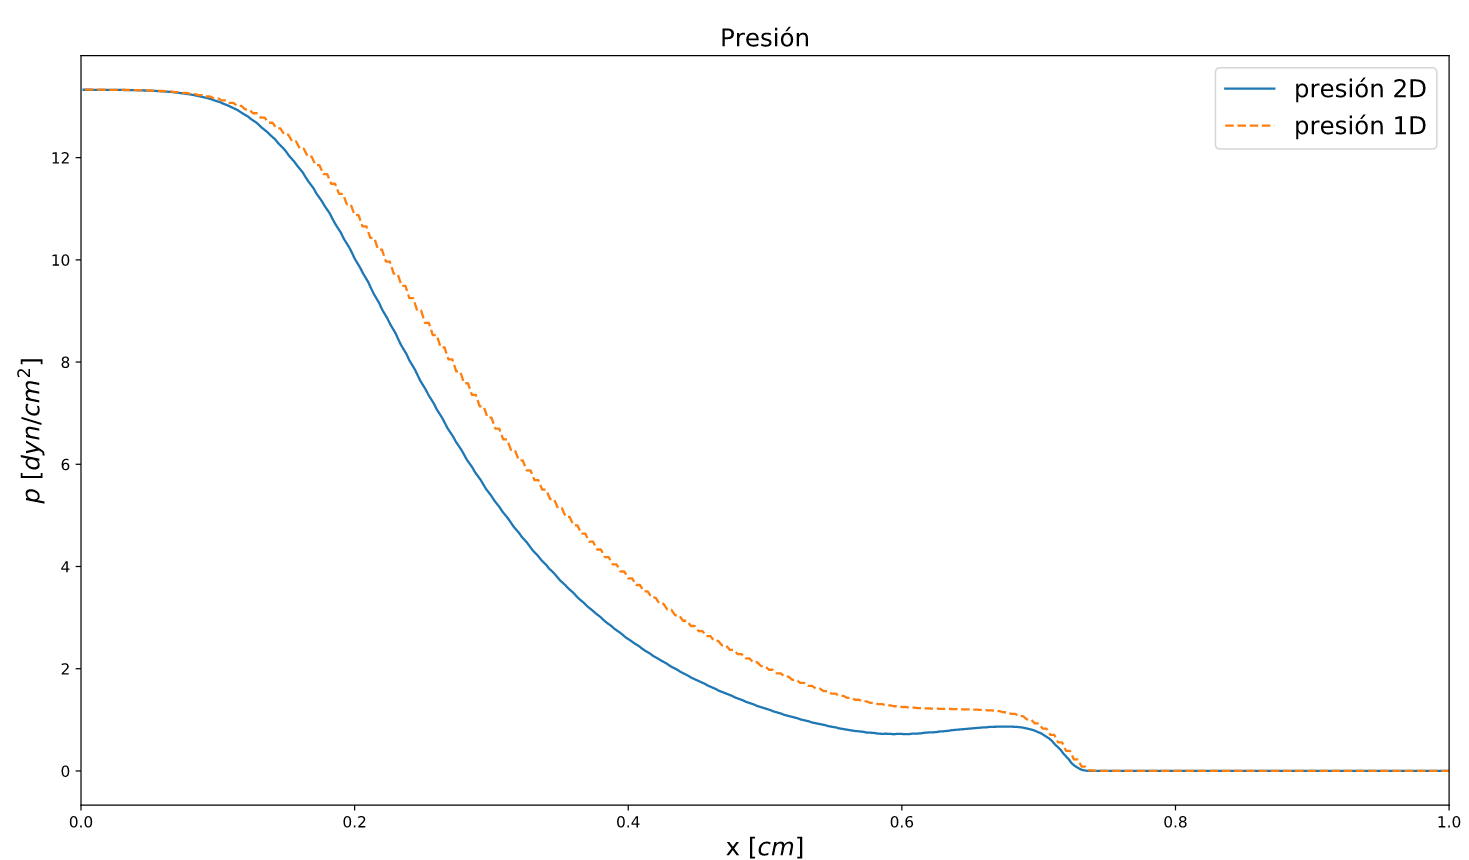
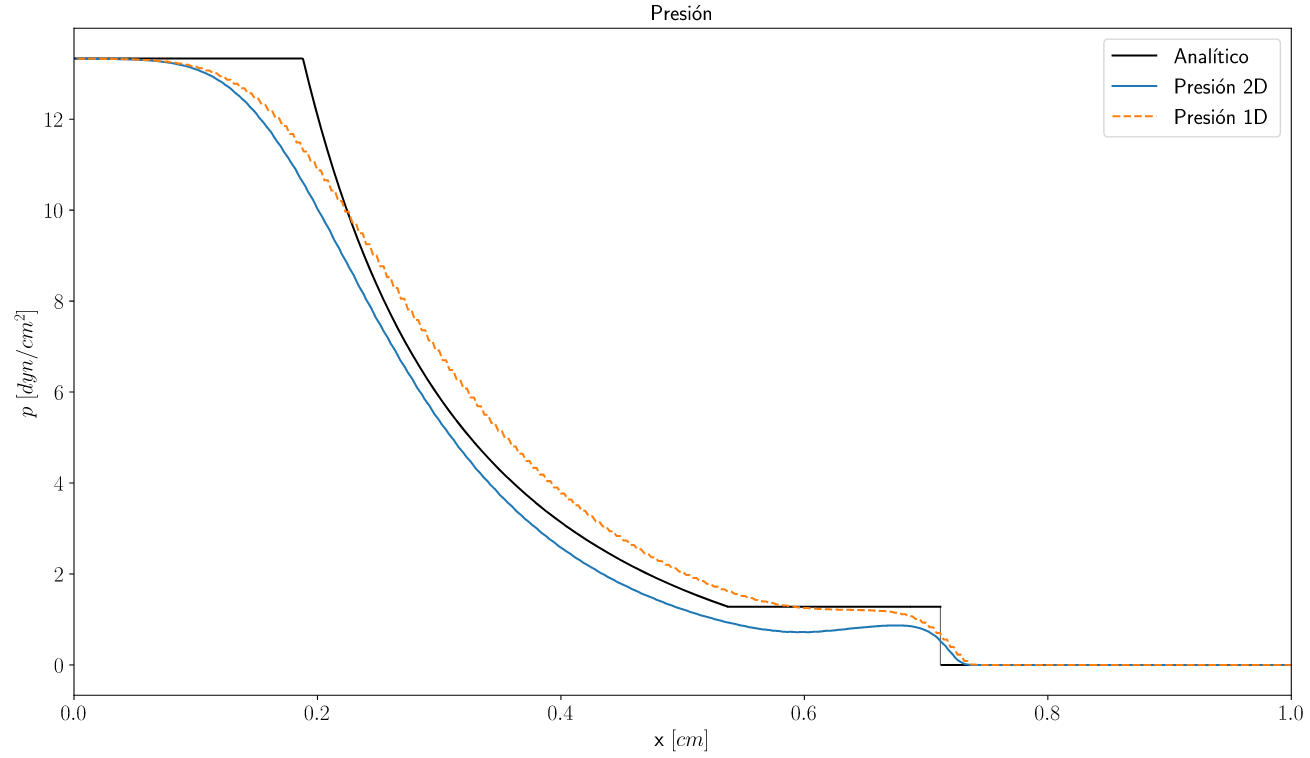
Discusion bidimensional

diff --git a/main.tex b/main.tex
@@ -2159,7 +2159,8 @@ Riemann relativista con resoluciones $\geq 500$ píxeles.
 
 \section{Pruebas bidimensionales}
 Ya que hemos visto el código funcionar correctamente para pruebas en una dimensión ahora nos toca ver
-como funciona en 2 dimensiones. Se hará una prueba de una onda de choque en 2 dimensiones, los valores
+como funciona en 2 dimensiones. Se hará una prueba de una onda de choque relativista
+en 2 dimensiones, los valores
 que tendrá están en el cuadro \ref{Cuadro_parametros_choque_2D}.
 
 \begin{table}[htbp]
@@ -2168,7 +2169,7 @@ que tendrá están en el cuadro \ref{Cuadro_parametros_choque_2D}.
   \hline 
   \textbf{Caso} & \textbf{$p_i$} [$\text{dyn}/\text{cm}^2$] & 
   \textbf{$p_o$} [$\text{dyn}/\text{cm}^2$] & 
-  \textbf{$v_{xi}$}/c & \textbf{$v_{xo}$}/c  & \textbf{$vy_i$}/c & \textbf{$vy_o$}/c  & 
+  \textbf{$v_{xi}$}/c & \textbf{$v_{xo}$}/c  & \textbf{$v_{yi}$}/c & \textbf{$v_{yo}$}/c  & 
   \textbf{$\rho_i$} [$\text{g}/\text{cm}^3$]& 
   \textbf{$\rho_o$} [$\text{g}/\text{cm}^3$]\\ 
   \hline 
@@ -2193,7 +2194,7 @@ perfiles de la onda.
 
 \begin{figure}
   \centering
-    \includegraphics[width=0.8\textwidth]{./Figuras/verificacion_del_codigo/pruebas_2D/Example}
+    \includegraphics[width=0.4\textwidth]{./Figuras/verificacion_del_codigo/pruebas_2D/Example}
   \caption{Las lineas indican los perfiles de densidad, velocidad y presión que se 
   tomaran de los radios que son 
   paralelos al eje x (0°), perpendiculares (90°) y a 45° y se compararán con las pruebas en 
@@ -2217,66 +2218,54 @@ el tiempo $t = 0.4$ s.
 \end{figure}
 
 Antes de compararlo con el perfil unidimensional, primero se comparará entre si mísmo. Es decir, se
-compararán los perfiles radiales tomados a 0°, 45°, 90°. En la Figura \ref{fig:comparacion_perfil_velocidad}
-el perfil de la densidad. Elpanel de arriba a la izquierda muestra a 0°, el de arriba a la derecha
-a 90° y el de abajo muestra a 45°.
+compararán los perfiles radiales tomados a 0°, 45°, 90°. 
+En la Figura \ref{fig:comparacion_perfil_radial}, el panel de arriba a la izquierda muestra la densidad, 
+el de arriba a la derecha la velocidad y el de abajo muestra la presión.
 
-En la Figura, para los 3 perfiles radiales, muestran una densidad $\rho \approx 10$ en $x \approx 0.2$
+En el panel de arriba a la derecha se muestra una densidad $\rho \approx 10$ en $x \approx 0.2$
 donde comienza a disminuir hasta $\rho \approx 1.5$ en $x \approx 0.6$. Después comienza a subir hasta 
 $\rho \approx 5$ para los perfiles de 90 y 0, mientras que para el de 45 sube hasta 5.5 en el punto
 $x \approx 0.7$. Después vuelve a disminuir a $\rho \approx 0$ en el punto $x \approx 0.8$ para los 
 3 perfiles radiales
 
 
-\begin{figure}
-  \centering
-      \subfigure{\includegraphics[scale = 0.16]{./Figuras/verificacion_del_codigo/pruebas_2D/0/densidad.png}}
-      \subfigure{\includegraphics[scale = 0.16]{./Figuras/verificacion_del_codigo/pruebas_2D/90/densidad.png}}
-      \subfigure{\includegraphics[scale = 0.16]{./Figuras/verificacion_del_codigo/pruebas_2D/45/densidad.png}}
-    \caption{La figura muestra la comparación que hay entre los distintos perfiles de
-    densidad al tiempo $t = 0.4$ s. El panel de arriba a la izquierda muestra el perfil a 0°, el de
-    arriba a la derecha muestra a 90° y el panel de abajo muestra a 45°}
-    \label{fig:comparacion_perfil_densidad}
-\end{figure}
 
-Para el perfil de la velocidad (ver Figura \ref{fig:comparacion_perfil_velocidad}), 
+Para el perfil de la velocidad (panel arriba a la derecha), 
 en $x \approx 0.2$ la velocidad empieza a incrementar desde el reposo
 $v = 0$ hasta $v \approx 0.7$ en $x \approx 0.6$, esto aplica para los 3 perfiles de velocidad. Después
 va decreciendo hasta $v \approx 0.62$ en $x \approx 0.75$ para los perfiles de 0 y 90, mientras que para 
 el perfil de 45 lo hace en $x \approx 0.73$. A partir de este punto la velocidad vuelve a cero.
 
-\begin{figure}
-  \centering
-      \subfigure{\includegraphics[scale = 0.16]{./Figuras/verificacion_del_codigo/pruebas_2D/0/velocidad.png}}
-      \subfigure{\includegraphics[scale = 0.16]{./Figuras/verificacion_del_codigo/pruebas_2D/90/velocidad.png}}
-      \subfigure{\includegraphics[scale = 0.16]{./Figuras/verificacion_del_codigo/pruebas_2D/45/velocidad.png}}
-    \caption{Igual que la Figura \ref{fig:comparacion_perfil_densidad}, solo que se tomó el perfil de
-    la velocidad.}\label{fig:comparacion_perfil_velocidad}
-\end{figure}
 
 
-El la figura \ref{fig:comparacion_perfil_presion} muestra el perfil de la presión, donde los paneles 
-vienen ordenados de igual manera que el perfil de densidad y velocidad. Para el punto $x \approx 0.18$
+
+El el panel de abajo muestra el perfil de la presión. Para el punto $x \approx 0.18$
 la presión comienza a disminuir de $p = 13.33$ hasta $p \approx 1 $ en $x \approx 0.7$ para los 
 3 perfiles. En $x \approx 0.71 $ vuelve a disminuir a $p = 0$ en $x \approx 0.74 $ para los perfiles de 
 0 y 90, mientras que para el perfil de 45 lo hace en $x \approx 0.73 $.
 
+Al comparar las gráficas, se puede ver que los perfiles de 0 y 90, tiene un error del 0 \% mientras que
+al compararse con el de 45 vemos que ... (verificar resultados).
+
+Por lo tanto al no haber una discrepencia grande en los valores de los 3 perfiles radiales podemos ver
+que nuestro codigo relativista no cambia a pesar de la dirección que tengan los perfiles radiales de 
+densidad, velocidad y presión. Siempre se tiene el mismo perfil en función del radio.
 
 \begin{figure}
   \centering
-      \subfigure{\includegraphics[scale = 0.16]{./Figuras/verificacion_del_codigo/pruebas_2D/0/presion.png}}
-      \subfigure{\includegraphics[scale = 0.16]{./Figuras/verificacion_del_codigo/pruebas_2D/90/presion.png}}
-      \subfigure{\includegraphics[scale = 0.16]{./Figuras/verificacion_del_codigo/pruebas_2D/45/presion.png}}
-    \caption{Igual que la Figura \ref{fig:comparacion_perfil_densidad}, solo que se tomó el perfil de
-    la presión.}\label{fig:comparacion_perfil_presion}
+      \subfigure{\includegraphics[scale = 0.16]{./Figuras/verificacion_del_codigo/pruebas_2D/combinacion/densidad.png}}
+      \subfigure{\includegraphics[scale = 0.16]{./Figuras/verificacion_del_codigo/pruebas_2D/combinacion/velocidad.png}}
+      \subfigure{\includegraphics[scale = 0.16]{./Figuras/verificacion_del_codigo/pruebas_2D/combinacion/presion.png}}
+    \caption{La figura muestra la comparación que hay entre los distintos perfiles de
+    densidad al tiempo $t = 0.4$ s. El panel de arriba a la izquierda muestra el perfil a 0° (linea roja
+    sólida), el de arriba a la derecha muestra a 90° (linea verde punteada) y el panel de abajo 
+    (linea azul de raya y punto) muestra a 45°}
+    \label{fig:comparacion_perfil_radial}
 \end{figure}
 
 
-
-
-
 En la Figura \ref{fig:comparacion_perfil_mean} muestra la comparación entre la prueba unidimensional
-y la prueba bidimensional, que es la media de los 3 perfiles radiales que se tomarón.
+y la prueba bidimensional, que es la media de los 3 perfiles radiales que se tomaron.
 El panel de arriba a la izquierda muestra la densidad, el de arriba a la derecha, la velocidad y 
 el de abajo la presión.
 La densidad y presión, para ambas pruebas, mantienen sus valores de 
@@ -2296,8 +2285,9 @@ sube a $v \approx 0.8c$ y baja a $v \approx 0.7c$ en $x \approx 0.68$ cm
       \subfigure{\includegraphics[scale = 0.16]{./Figuras/verificacion_del_codigo/pruebas_2D/mean/densidad.png}}
       \subfigure{\includegraphics[scale = 0.16]{./Figuras/verificacion_del_codigo/pruebas_2D/mean/velocidad.png}}
       \subfigure{\includegraphics[scale = 0.16]{./Figuras/verificacion_del_codigo/pruebas_2D/mean/presion.png}}
-    \caption{Comparación entre la media de los 3 perfiles radiales (0, 90 y 45) y 
-    la prueba unidimensional.}\label{fig:comparacion_perfil_mean}
+    \caption{Comparación entre la media de los 3 perfiles radiales (linea sólida azul), la 
+    la prueba unidimensional (linea de puntos rojos) y la analítica (linea negra sólida)
+    .}\label{fig:comparacion_perfil_mean}
 \end{figure}
 
 
@@ -2309,181 +2299,14 @@ donde la densidad, así como la velocidad y presión descienden sus valores a nu
 La mayor diferencia que hay entre la 1D y 2D para la densidad es del 70 \%, mientras que para la 
 velocidad es del 238 \% y la de la presión es del 79 \%.
 
+Al comparar los perfiles bidimensionales con el analítico, para la densidad se tiene un error del
+13 \%, para la velocidad del 12 \% y para la presión del 16 \%. Luego al comparar el unidimensional
+con el analítico, la densidad es del 3 \%, la velocidad del 7\% y la presión del 4 \%.
 
+Al no haber tanta diferencia del resultado de la media de los perfiles radiales bidimensionales con 
+los perfiles unidimensionales y con el analítico puedo concluir que mi código relativista es válido
+para 2 dimensiones.
 
-
-
-
-% \begin{figure}
-%   \centering
-%   \subfigure[$t = 0 $ s]{\includegraphics[scale = 0.36]{./Figuras/verificacion/casos/caso_2/LAX_NR_screenshot_0}}
-%   \subfigure[$t = 1.89\,\times 10^{10}$ s]{\includegraphics[scale = 0.36]{./Figuras/verificacion/casos/caso_2/LAX_NR_screenshot_20}}
-%   \subfigure[$t = 3.784 \,\times 10^{10}$ s]{\includegraphics[scale = 0.36]{./Figuras/verificacion/casos/caso_2/LAX_NR_screenshot_40}}
-%   \caption{Evolución de la onda de choque de la Figura \ref{fig_velocidad_vs_radio_computacionalmente_lax_newtoniano_500}}
-% \end{figure} \label{fig_cmap_lax_newtoniano_500}
-%   % ========================================= Caso 2 ========================================================================
-
-
-
-%   % ========================================= caso_3 ========================================================================
-
-% \begin{figure}
-%   \centering
-%     \includegraphics[width=0.8\textwidth]{./Figuras/verificacion/casos/caso_3/Expansion}
-%   \caption{Velocidad del radio de expansión de una onda de choque conforme avanza el tiempo. El exponente con la que se expande la onda es 
-%   $ a = 0.419$ con un coeficiente de relación $R^2=0.992$. 
-%   El método que se usó fue Lax no relativista.} \label{fig_velocidad_vs_radio_computacionalmente_lax_newtoniano_1000}
-% \end{figure}
-
-
-
-% \begin{figure}
-%   \centering
-%   \subfigure[$t = 0 $ s]{\includegraphics[scale = 0.36]{./Figuras/verificacion/casos/caso_3/LAX_NR_screenshot_0}}
-%   \subfigure[$t = 1.89\,\times 10^{10}$ s]{\includegraphics[scale = 0.36]{./Figuras/verificacion/casos/caso_3/LAX_NR_screenshot_20}}
-%   \subfigure[$t = 3.784 \,\times 10^{10}$ s]{\includegraphics[scale = 0.36]{./Figuras/verificacion/casos/caso_3/LAX_NR_screenshot_40}}
-%   \caption{Evolución de la onda de choque de la Figura \ref{fig_velocidad_vs_radio_computacionalmente_lax_newtoniano_1000}}
-% \end{figure}
-%   % ========================================= caso_3 ========================================================================
-% Para el caso HLL newtoniano se tienen los mismos casos, pero HLL es sutílmente mejor al aproximarse al exponente , tanto para HLL con Lax en
-% el caso newtoniano el tiempo para para casos donde la resolución es de 250x250 el programa para al tiempo $t= 4.12 \times 10^{10}$, para 500x500 
-% $t= 8.13 \times 10^{10}$
-
-
-%   % ========================================= caso_4 ========================================================================
-
-%   \begin{figure}
-%     \centering
-%       \includegraphics[width=0.8\textwidth]{./Figuras/verificacion/casos/caso_4/Expansion}
-%     \caption{Velocidad del radio de expansión de una onda de choque conforme avanza el tiempo. El exponente con la que se expande la onda es 
-%     $ a = 0.474$ con un coeficiente de relación $R^2=0.988$. 
-%     El método que se usó fue HLL no relativista.} \label{fig_velocidad_vs_radio_computacionalmente_hll_newtoniano_250}
-%   \end{figure}
-  
-  
-  
-%   \begin{figure}
-%     \centering
-%     \subfigure[$t = 0 $ s]{\includegraphics[scale = 0.36]{./Figuras/verificacion/casos/caso_4/HLL_NR_screenshot_0}}
-%     \subfigure[$t = 1.89\,\times 10^{10}$ s]{\includegraphics[scale = 0.36]{./Figuras/verificacion/casos/caso_4/HLL_NR_screenshot_20}}
-%     \subfigure[$t = 3.784 \,\times 10^{10}$ s]{\includegraphics[scale = 0.36]{./Figuras/verificacion/casos/caso_4/HLL_NR_screenshot_40}}
-%     \caption{Evolución de la onda de choque de la Figura \ref{fig_velocidad_vs_radio_computacionalmente_hll_newtoniano_250}}
-%   \end{figure}
-%     % ========================================= caso_4 ========================================================================
-  
-  
-
-%  % ========================================= caso_5 ========================================================================
-
-%  \begin{figure}
-%   \centering
-%     \includegraphics[width=0.8\textwidth]{./Figuras/verificacion/casos/caso_5/Expansion}
-%   \caption{Velocidad del radio de expansión de una onda de choque conforme avanza el tiempo. El exponente con la que se expande la onda es 
-%   $ a = 0.427$ con un coeficiente de relación $R^2=0.982$. 
-%   El método que se usó fue HLL no relativista.} \label{fig_velocidad_vs_radio_computacionalmente_hll_newtoniano_500}
-% \end{figure}
-
-
-
-% \begin{figure}
-%   \centering
-%   \subfigure[$t = 0 $ s]{\includegraphics[scale = 0.36]{./Figuras/verificacion/casos/caso_5/HLL_NR_screenshot_0}}
-%   \subfigure[$t = 1.89\,\times 10^{10}$ s]{\includegraphics[scale = 0.36]{./Figuras/verificacion/casos/caso_5/HLL_NR_screenshot_20}}
-%   \subfigure[$t = 3.784 \,\times 10^{10}$ s]{\includegraphics[scale = 0.36]{./Figuras/verificacion/casos/caso_5/HLL_NR_screenshot_40}}
-%   \caption{Evolución de la onda de choque de la Figura \ref{fig_velocidad_vs_radio_computacionalmente_hll_newtoniano_500}}
-% \end{figure}
-%   % ========================================= caso_5 ========================================================================
-
-% % ========================================= caso_6 ========================================================================
-
-% \begin{figure}
-%   \centering
-%     \includegraphics[width=0.8\textwidth]{./Figuras/verificacion/casos/caso_6/Expansion}
-%   \caption{Velocidad del radio de expansión de una onda de choque conforme avanza el tiempo. El exponente con la que se expande la onda es 
-%   $ a = 0.418$ con un coeficiente de relación $R^2=0.987$. 
-%   El método que se usó fue HLL no relativista.} \label{fig_velocidad_vs_radio_computacionalmente_hll_newtoniano_1000}
-% \end{figure}
-
-
-% \begin{figure}
-%   \centering
-%   \subfigure[$t = 0 $ s]{\includegraphics[scale = 0.36]{./Figuras/verificacion/casos/caso_6/HLL_NR_screenshot_0}}
-%   \subfigure[$t = 1.89\,\times 10^{10}$ s]{\includegraphics[scale = 0.36]{./Figuras/verificacion/casos/caso_6/HLL_NR_screenshot_20}}
-%   \subfigure[$t = 3.784 \,\times 10^{10}$ s]{\includegraphics[scale = 0.36]{./Figuras/verificacion/casos/caso_6/HLL_NR_screenshot_40}}
-%   \caption{Evolución de la onda de choque de la Figura \ref{fig_velocidad_vs_radio_computacionalmente_hll_newtoniano_1000}}
-% \end{figure}
-%   % ========================================= caso_6 ========================================================================
-
-% Dado que para Lax y HLL, conforme se aumente la resolución el programa funciona mejor dado que el programa no para antes de lo estipulado para resoluciones
-% grandes, ademas el exponente se acerca a 0.4. Aunque HLL es un poco mejor que Lax se, la diferencia no es tan notoria y se pueden usar los 2 sin ningún 
-% problema.
-
-% % ========================================= caso_7 ========================================================================
-% \section{Casos relativistas}
-
-
-% para los casos relativistas, tanto para HLL como Lax, la conclusión es la 
-
-
-% \begin{figure}
-%   \centering
-%     \includegraphics[width=0.8\textwidth]{./Figuras/verificacion/casos/caso_7/Expansion}
-%   \caption{Velocidad del radio de expansión de una onda de choque conforme avanza el tiempo. El eje del tiempo tiene un factor de $10^{10}$ mientras que el del radio
-%   un factor de $10^19$. La ecuación con la que se expande la onda es $ Radio = 522773497555577.4 t^{0.4409}$ con un coeficiente de relación $R^2=0.9916$
-%   } \label{fig_velocidad_vs_radio_computacionalmente}
-% \end{figure}
-
-
-
-% \begin{figure}
-%   \centering
-%   \subfigure[$t = 0 $ s]{\includegraphics[scale = 0.36]{./Figuras/verificacion/casos/caso_7/HLL_REL_screenshot_0}}
-%   \subfigure[$t = 1.89\,\times 10^{10}$ s]{\includegraphics[scale = 0.36]{./Figuras/verificacion/casos/caso_7/HLL_REL_screenshot_20}}
-%   \subfigure[$t = 3.784 \,\times 10^{10}$ s]{\includegraphics[scale = 0.36]{./Figuras/verificacion/casos/caso_7/HLL_REL_screenshot_40}}
-%   \caption{Evolución de la onda de choque de la Figura \ref{fig_velocidad_vs_radio_computacionalmente}}
-% \end{figure}
-%   % ========================================= caso_7 ========================================================================
-
-% % ========================================= caso_8 ========================================================================
-
-% \begin{figure}
-%   \centering
-%     \includegraphics[width=0.8\textwidth]{./Figuras/verificacion/casos/caso_8/Expansion}
-%   \caption{Velocidad del radio de expansión de una onda de choque conforme avanza el tiempo. El eje del tiempo tiene un factor de $10^{10}$ mientras que el del radio
-%   un factor de $10^19$. La ecuación con la que se expande la onda es $ Radio = 522773497555577.4 t^{0.4409}$ con un coeficiente de relación $R^2=0.9916$
-%   } \label{fig_velocidad_vs_radio_computacionalmente}
-% \end{figure}
-
-
-
-% \begin{figure}
-%   \centering
-%   \subfigure[$t = 0 $ s]{\includegraphics[scale = 0.36]{./Figuras/verificacion/casos/caso_8/HLL_REL_screenshot_0}}
-%   \subfigure[$t = 1.89\,\times 10^{10}$ s]{\includegraphics[scale = 0.36]{./Figuras/verificacion/casos/caso_8/HLL_REL_screenshot_20}}
-%   \subfigure[$t = 3.784 \,\times 10^{10}$ s]{\includegraphics[scale = 0.36]{./Figuras/verificacion/casos/caso_8/HLL_REL_screenshot_40}}
-%   \caption{Evolución de la onda de choque de la Figura \ref{fig_velocidad_vs_radio_computacionalmente}}
-% \end{figure}
-%   % ========================================= caso_8 ========================================================================
-
-% % ========================================= caso_9 ========================================================================
-
-% \begin{figure}
-%   \centering
-%     \includegraphics[width=0.8\textwidth]{./Figuras/verificacion/casos/caso_9/Expansion}
-%   \caption{Velocidad del radio de expansión de una onda de choque conforme avanza el tiempo. El eje del tiempo tiene un factor de $10^{10}$ mientras que el del radio
-%   un factor de $10^19$. La ecuación con la que se expande la onda es $ Radio = 522773497555577.4 t^{0.4409}$ con un coeficiente de relación $R^2=0.9916$
-%   } \label{fig_velocidad_vs_radio_computacionalmente}
-% \end{figure}
-
-
-% \begin{figure}
-%   \centering
-%   \subfigure[$t = 0 $ s]{\includegraphics[scale = 0.36]{./Figuras/verificacion/casos/caso_9/HLL_REL_screenshot_0}}
-%   \subfigure[$t = 1.89\,\times 10^{10}$ s]{\includegraphics[scale = 0.36]{./Figuras/verificacion/casos/caso_9/HLL_REL_screenshot_20}}
-%   \subfigure[$t = 3.784 \,\times 10^{10}$ s]{\includegraphics[scale = 0.36]{./Figuras/verificacion/casos/caso_9/HLL_REL_screenshot_40}}
-%   \caption{Evolución de la onda de choque de la Figura \ref{fig_velocidad_vs_radio_computacionalmente}}
-% \end{figure}
-%   % ========================================= caso_9 ========================================================================
 
 
 % % ========================================= caso_10 ========================================================================
